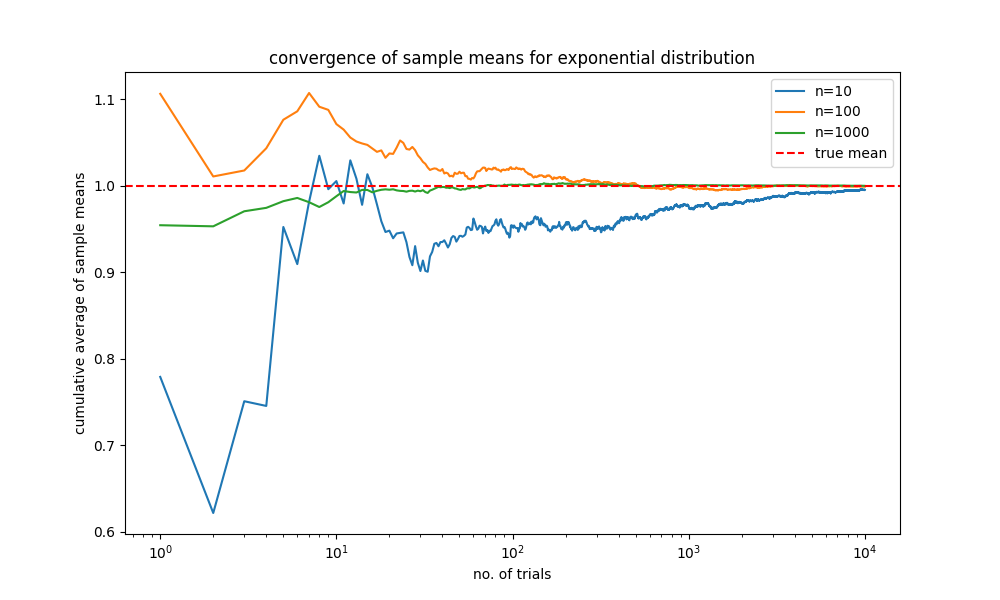
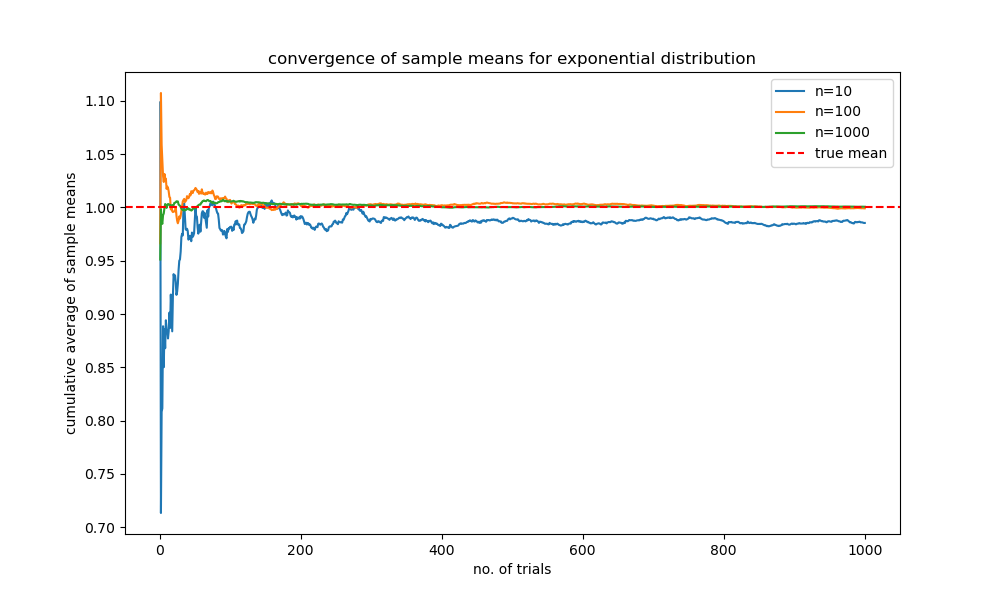
improved data visualisation

diff --git a/portfolio_II/expectation.py b/portfolio_II/expectation.py
@@ -39,7 +39,6 @@ def plot_convergence(sample_sizes, num_trials):
         plt.plot(range(1, num_trials + 1), cumulative_means, label=f'n={size}')
 
     plt.axhline(y=1.0, color='r', linestyle='--', label='true mean')
-    plt.xscale('log')
     plt.xlabel('no. of trials')
     plt.ylabel('cumulative average of sample means')
     plt.title('convergence of sample means for exponential distribution')
@@ -49,7 +48,7 @@ def plot_convergence(sample_sizes, num_trials):
 
 # usage
 sample_sizes = [10, 100, 1000]
-num_trials = 10000
+num_trials = 1000
 
 plot_convergence(sample_sizes, num_trials)
 
